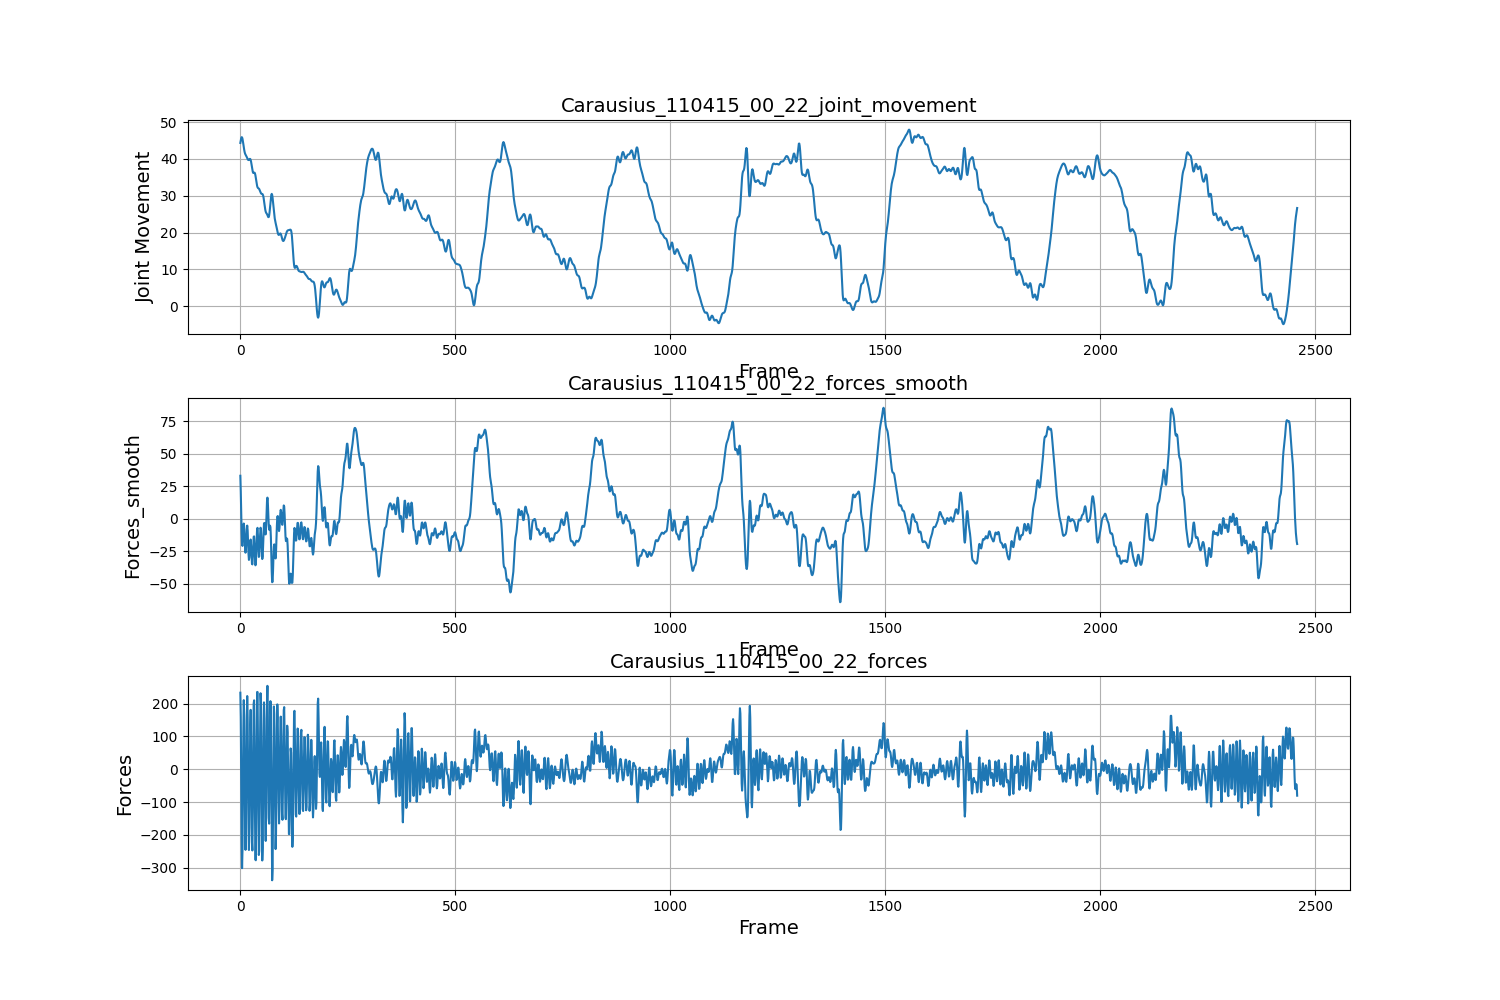
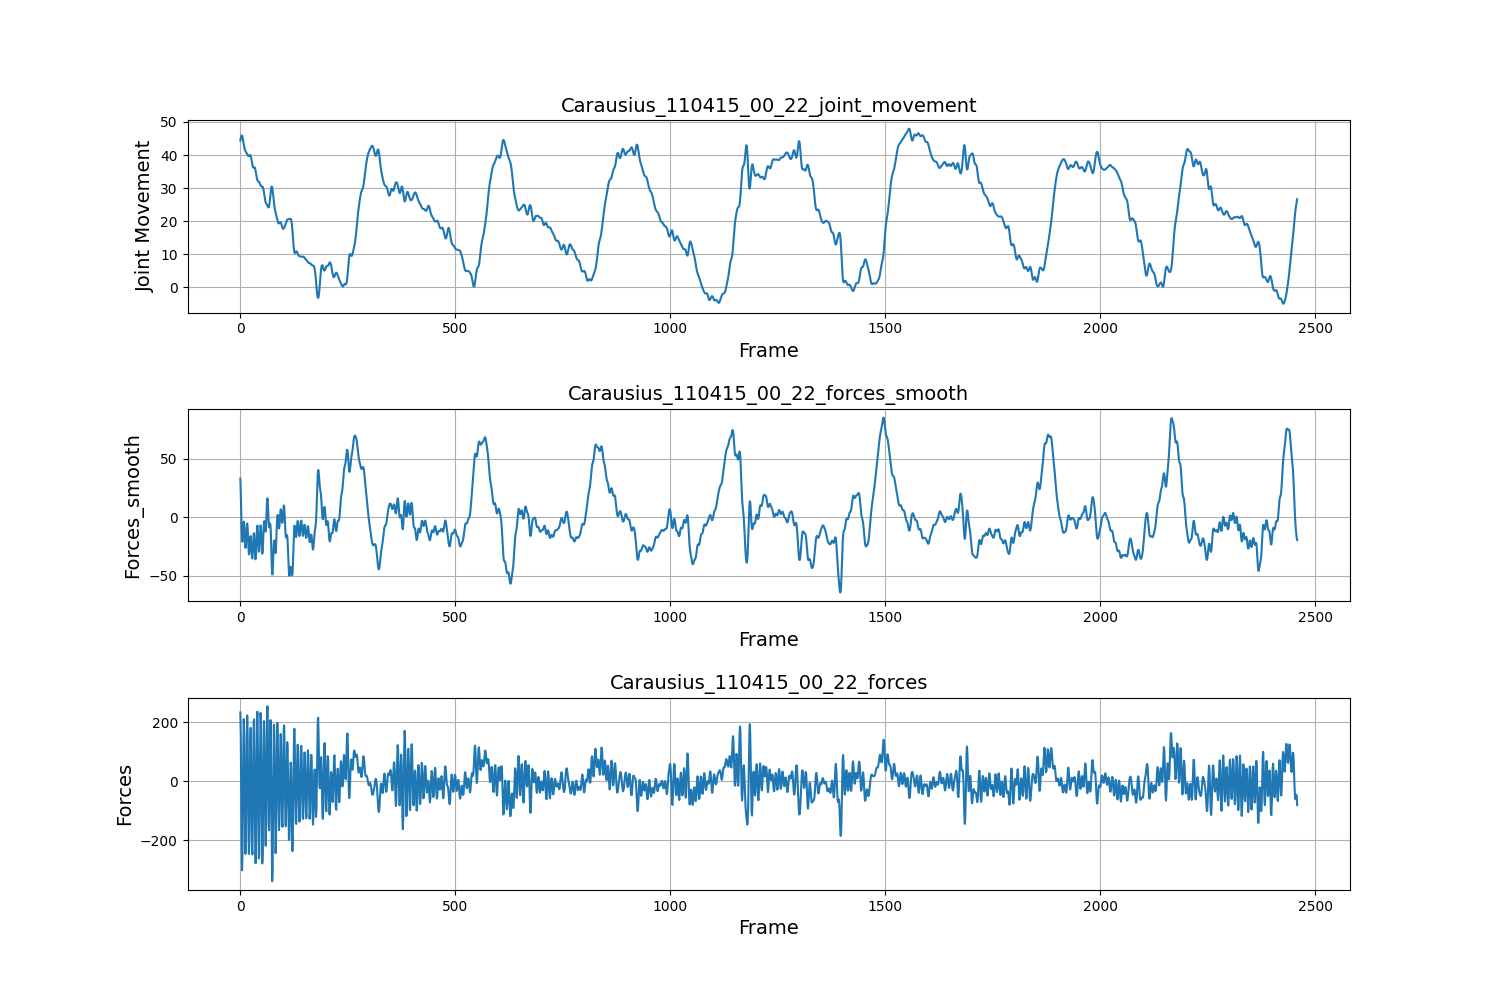
commit

diff --git a/plot.py b/plot.py
@@ -40,19 +40,28 @@ forces = data_smooth(forces)
 
 # subplot
 fig, axs = plt.subplots(3, 1, figsize=(15, 15))
-axs[0].plot(joint_movement[:,14])
+axs[0].plot(joint_movement[:,0])
+axs[0].plot(joint_movement[:,6])
+axs[0].plot(joint_movement[:,12])
+axs[0].plot(joint_movement[:,18])
 axs[0].set_xlabel('Frame')
 axs[0].set_ylabel('Joint Movement')
 axs[0].set_title('Carausius_110415_00_22_joint_movement')
 axs[0].grid()
 
-axs[1].plot(forces_unsmoothed[:,14])
+axs[1].plot(forces[:,0])
+axs[1].plot(forces[:,6])
+axs[1].plot(forces[:,12])
+axs[1].plot(forces[:,18])
 axs[1].set_xlabel('Frame')
 axs[1].set_ylabel('Forces')
 axs[1].set_title('Carausius_110415_00_22_forces')
 axs[1].grid()
 
-axs[2].plot(forces[:,14])
+axs[2].plot(forces_unsmoothed[:,0])
+axs[2].plot(forces_unsmoothed[:,6])
+axs[2].plot(forces_unsmoothed[:,12])
+axs[2].plot(forces_unsmoothed[:,18])
 axs[2].set_xlabel('Frame')
 axs[2].set_ylabel('Forces_smooth')
 axs[2].set_title('Carausius_110415_00_22_forces_smooth')
